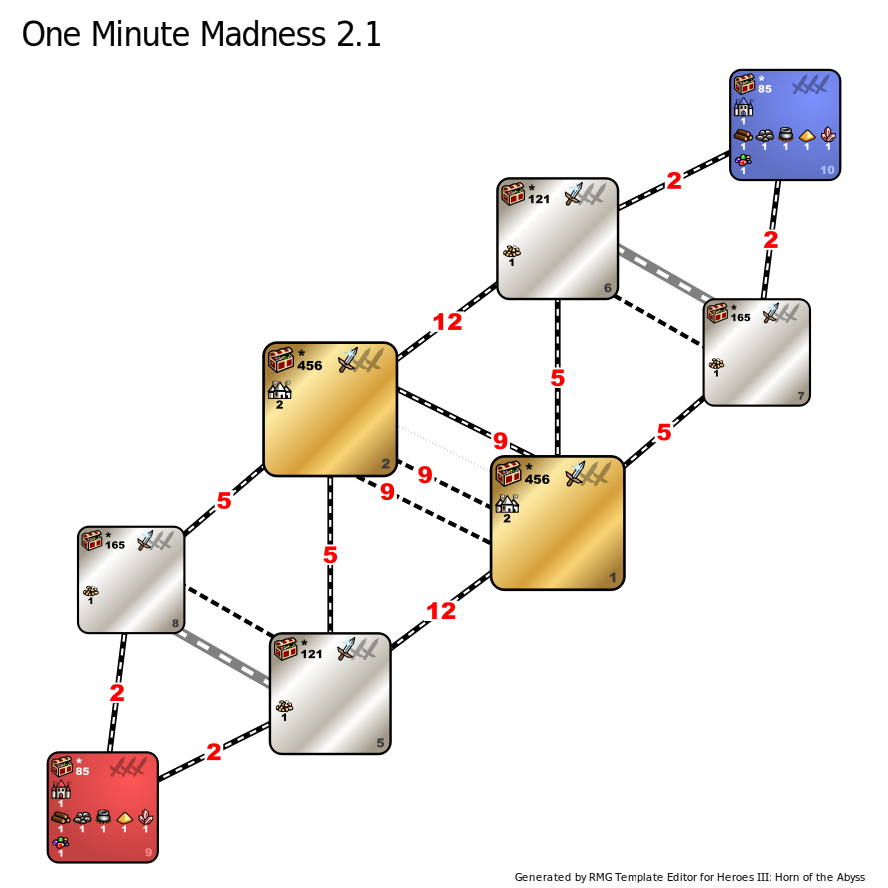
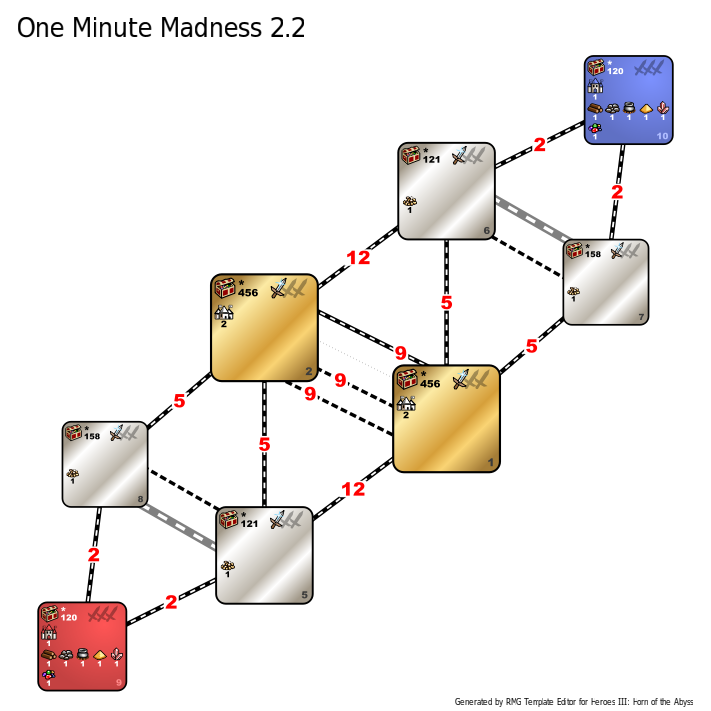
1mm 2.2

diff --git a/templates/one_minute_madness/index.md b/templates/one_minute_madness/index.md
@@ -42,52 +42,16 @@ Players start in a monsterless zone with lots of resources and mines. This zone 
     * The road connection between zones 1 and 2 should be almost always the green two-way monolith.
 * Zones 9 and 10 are player starting zones.
     * Terrain is corresponding to the towns chosen by the players.
-     * Only a subset of objects is allowed to spawn in these zones:
-        * Wood:
-            * value: 600
-            * frequency: 6
-        * Ore:
-            * value: 600
-            * frequency: 5
-        * Mercury, Sulfur, Crystal, Gems
-            * value: 700
-            * frequency: 4
-        * Gold
-            * value: 500
-            * frequency: 9
-        * Treasure Chest
-            * value: 1000
-            * frequency: 2
-            * Max per zone: 3
-        * Campfire
-            * value: 800
-            * frequency: 3
-        * Redwood observatory
-            * value: default
-            * frequency: 2000
-            * Max per zone: 1
-        * Level 1 dwelling
+    * A heavily limited set of objects spawns on this zone:
+        * A limited amount of Resource objects (Wood, Ore, Mercury, Sulfur, Crystal, Gems, Gold, Treasure Chests and Campfires)
+        * A maximum of 1 Redwood observatory
+        * 1 Level 1 dwelling
             * Applies only for factions other than Conflux.
-            * value: default
-            * frequency: 2000
-            * Max per zone: 1
-        * Elemental Conflux
+        * 1 Elemental Conflux
             * Applies only for Conflux.
-            * value: default
-            * frequency: 2000
-            * Max per zone: 1
-        * Churchyard
-            * value: default
-            * frequency: 2000
-            * Max per zone: 1
-        * Learning Stone
-            * value: default
-            * frequency: 2000
-            * Max per zone: 1
-        * Town Gate
-            * value: 750
-            * frequency: 9999
-            * Max per zone: 1
+        * A maximum of 1 Churchyard
+        * A maximum of 1 Learning Stone
+        * 1 Town Gate
 * Zones 7 and 8 are wasteland zones.
     * Terrain is always Wasteland.
     * Treasure Class artifacts have their frequency increased to 275. At most four of them can spawn in this zone.
@@ -131,6 +95,7 @@ Players start in a monsterless zone with lots of resources and mines. This zone 
         * Level 2 shrines: 3
         * Level 3 shrines: 2
         * Other levels of both scrolls and shrines are not limited.
+    * The amount of Resource objects that can spawn is limited on this zone.
     * Trailblazers, Windmills, Derricks, Prospectors, and Warehouses of any kind are disabled in this zone.
 * Zones 5 and 6 are grass zones.
     * Terrain is always Grass.
@@ -138,6 +103,7 @@ Players start in a monsterless zone with lots of resources and mines. This zone 
     * Water Wheels have their value increased to 1000, and their frequency to 150.
     * Wood has its frequency increased to 350.
     * A single Pandora's Box containing 5000 xp spawns in this zone.
+    * The amount of Resource objects that can spawn is limited on this zone.
     * The following creature banks spawn in this zone:
         * 3 Crypts
         * 1 Churchyard

diff --git a/templates/one_minute_madness/changelog.md b/templates/one_minute_madness/changelog.md
@@ -7,6 +7,17 @@ title: HoMM3 Template Vault | One Minute Madness changelog
 
 ## One Minute Madness - Changelog
 
+### Version 2.2
+
+[Download](./One%20Minute%20Madness%202.2.h3t)
+
+Just before the start of the next season's signups, there is a need for a yet another update. This time, it is mostly about getting the amount of resources under control, cause at this point there were simply too many of them, and the sides of map got really unequal in this context.
+
+* Slightly lowered treasure count on Wasteland, to make it a bit less rich in gold.
+* Implemented the caps on resource piles on all zones except for the Desert ones.. The exact numbers would be just noise in the documentation and hence are ommited. The reason for this is to avoid utterly rich map rolls where you get so much gold that you can double build even the most expensive builds without literally any care for economy - and it should help at least little bit to equalize the sides of the map. Desert zones are excluded from the cap because they already have a minuscule amount of resources in them, and as such the cap is unnecessary.
+* Heavily increased treasure count on - with every single object having its count capped, this makes starting zones more stable, and provides some way to detect the effective map size.
+* Added a Nomad dwelling on the Desert zone. Players have noted the need to alleviate the necessity of Pathfinding due to increased sizes of the Desert zones - and honestly, needing to do something makes sense. I do not know if a Nomad dwelling will help much in this case, but it was a common suggestion, and after giving it a bit of thought, it does make sense to include it.
+
 ### Version 2.1
 
 [Download](./One%20Minute%20Madness%202.1.h3t)
